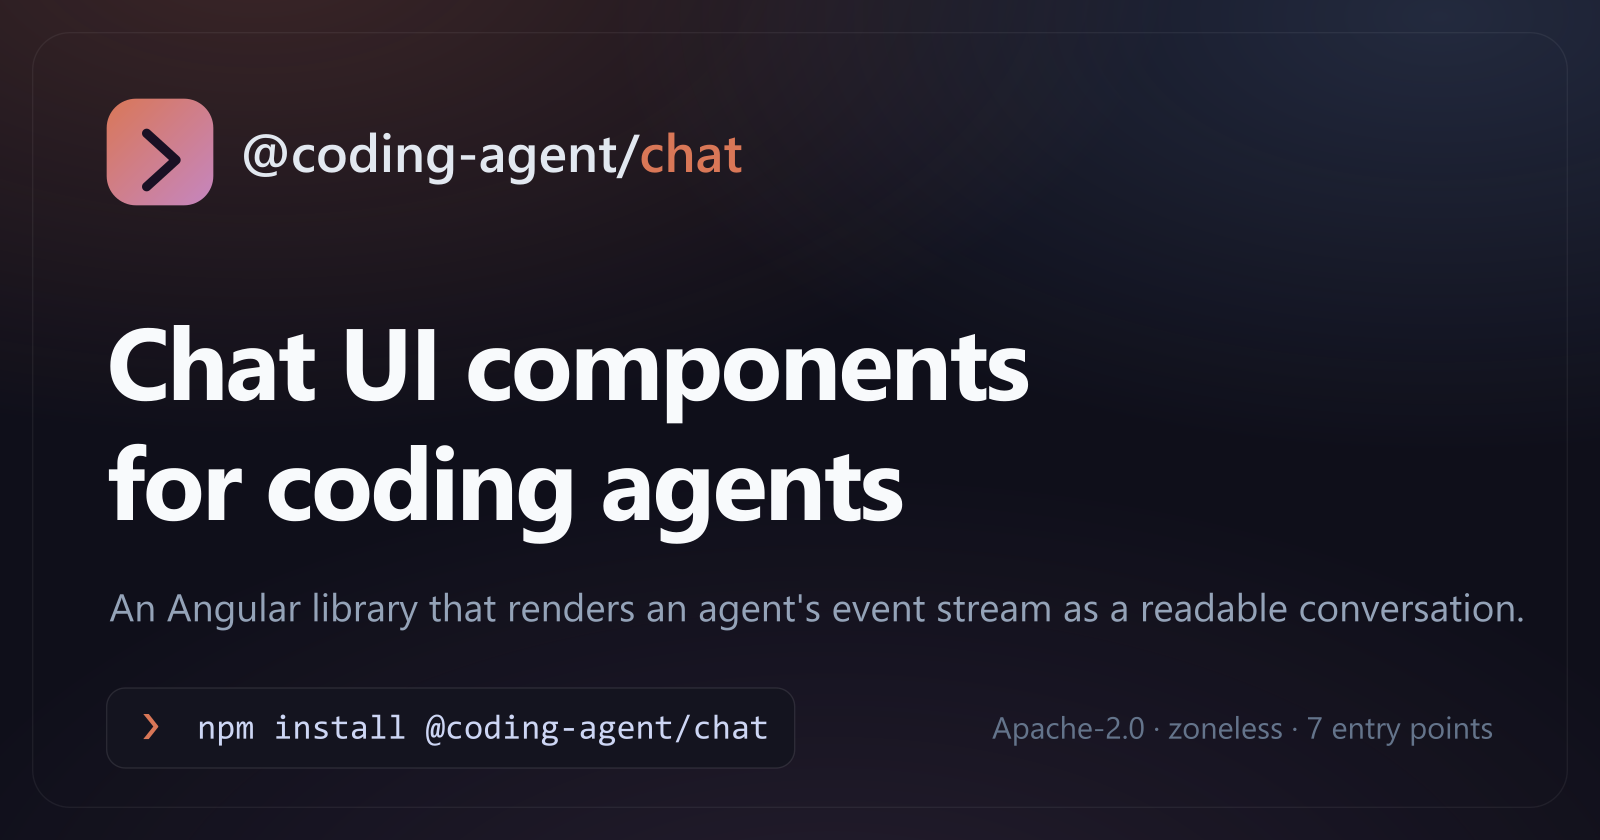
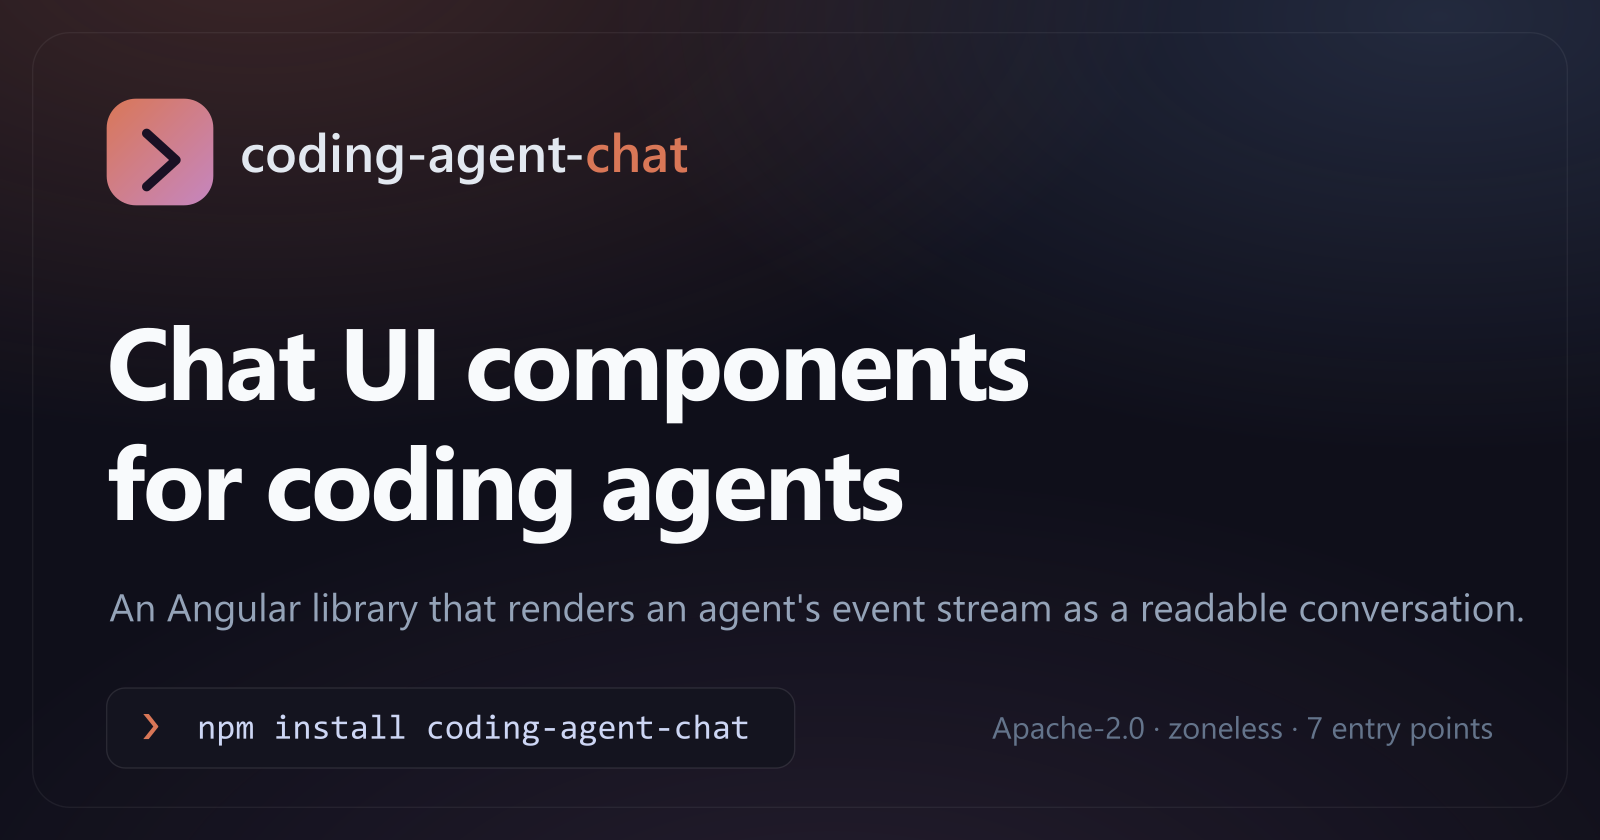
refactor!: rename package @user/chat -> coding-agent-chat (unscoped)
The @user npm org name is taken, so the package publishes unscoped
as `coding-agent-chat` - which conveniently matches the GitHub repo name
and needs no organization at all.

Swept all 70 files: the library package.json, every cross-entry-point
import in the library sources (ng-packagr writes these specifiers into the
published FESMs, so they MUST match the package name), tsconfig path keys
(root + both live configs), lab + website app imports, docs snippets and
explorer samples, website copy/brand lockups (nav, hero, footer, OG card
SVG + regenerated PNG, index.html title/meta/JSON-LD), Impressum/
Datenschutz footers, README/NOTICE/workflow comments, and the workbench
docs strings. Verified: zero old specifiers left in the repo or in the
built dist FESMs; imports now read `coding-agent-chat/core` etc.

145 workspace tests + 302 library specs pass; library + website build and
prerender clean; dist stamps coding-agent-chat@0.1.0.

Changed region(s): [[0.1562, 0.1548, 0.4688, 0.2167], [0.25, 0.8357, 0.4688, 0.8976]]

diff --git a/projects/coding-agent-chat/src/public-api.ts b/projects/coding-agent-chat/src/public-api.ts
@@ -1,17 +1,17 @@
 /*
- * Public API surface of @coding-agent/chat
+ * Public API surface of coding-agent-chat
  *
  * The primary entry point re-exports every secondary entry point plus the
  * `provideCodingAgentChat()` host-wiring helper. Consumers who care about
  * bundle weight import the secondary entry points directly —
- * `@coding-agent/chat/core` stays zero-Angular for backends, SSR and tests.
+ * `coding-agent-chat/core` stays zero-Angular for backends, SSR and tests.
  */
 
-export * from '@coding-agent/chat/core';
-export * from '@coding-agent/chat/markdown';
-export * from '@coding-agent/chat/shared';
-export * from '@coding-agent/chat/conversation';
-export * from '@coding-agent/chat/composer';
-export * from '@coding-agent/chat/history';
+export * from 'coding-agent-chat/core';
+export * from 'coding-agent-chat/markdown';
+export * from 'coding-agent-chat/shared';
+export * from 'coding-agent-chat/conversation';
+export * from 'coding-agent-chat/composer';
+export * from 'coding-agent-chat/history';
 
 export * from './provide-coding-agent-chat';

diff --git a/projects/website/src/app/snippets.ts b/projects/website/src/app/snippets.ts
@@ -4,12 +4,12 @@
  * when the public API moves.
  */
 
-export const SNIPPET_INSTALL = `npm install @coding-agent/chat
+export const SNIPPET_INSTALL = `npm install coding-agent-chat
 # peer deps: @angular/core, @angular/common, @angular/forms (>=21 <22), rxjs ~7.8`;
 
 export const SNIPPET_PROVIDE = `// app.config.ts
 import { ApplicationConfig } from '@angular/core';
-import { provideCodingAgentChat } from '@coding-agent/chat';
+import { provideCodingAgentChat } from 'coding-agent-chat';
 
 export const appConfig: ApplicationConfig = {
   providers: [
@@ -19,8 +19,8 @@ export const appConfig: ApplicationConfig = {
 };`;
 
 export const SNIPPET_RENDER = `// any component
-import { ConversationViewComponent } from '@coding-agent/chat/conversation';
-import type { ConversationEvent } from '@coding-agent/chat/core';
+import { ConversationViewComponent } from 'coding-agent-chat/conversation';
+import type { ConversationEvent } from 'coding-agent-chat/core';
 
 @Component({
   imports: [ConversationViewComponent],
@@ -38,7 +38,7 @@ provideCodingAgentChat({
 });`;
 
 export const SNIPPET_SEAM_HISTORY = `// The history entry point adds two more seams, provided directly:
-import { CHAT_HISTORY_CONFIRM, PROJECT_CHAT_DATA_SOURCE } from '@coding-agent/chat/history';
+import { CHAT_HISTORY_CONFIRM, PROJECT_CHAT_DATA_SOURCE } from 'coding-agent-chat/history';
 
 providers: [
   // scroll/search/stats/turn transport behind <cac-project-chat-list>
@@ -56,15 +56,15 @@ export interface ProjectChatDataSource {
 }`;
 
 export const SNIPPET_THEME = `/* styles.scss — optional drop-in stylesheet with the studio look */
-@import '@coding-agent/chat/theme/cac-theme.css';
+@import 'coding-agent-chat/theme/cac-theme.css';
 
 /* Dark by default. Light theme via an attribute on any parent: */
 /* <html data-studio-theme="light"> */`;
 
 export const SNIPPET_CORE_ONLY = `// Zero-Angular kernel: backends, SSR and tests can import the wire
 // contract + projection without pulling in the renderer.
-import { projectConversation } from '@coding-agent/chat/core';
-import type { ConversationEvent } from '@coding-agent/chat/core';
+import { projectConversation } from 'coding-agent-chat/core';
+import type { ConversationEvent } from 'coding-agent-chat/core';
 
 // Raw evidence in (CLI log lines, run timeline, tokens, screenshots, commits) —
 // a flat, ordered ConversationEvent[] out.

diff --git a/projects/website/src/app/app.html b/projects/website/src/app/app.html
@@ -5,7 +5,7 @@
   <div class="wrap site-nav__row">
     <a class="site-nav__brand" href="#top">
       <span class="site-nav__logo" aria-hidden="true"></span>
-      <span>&#64;coding-agent/<b>chat</b></span>
+      <span>coding-agent-<b>chat</b></span>
     </a>
     <div class="site-nav__links">
       <a
@@ -64,7 +64,7 @@
       </a>
       <a
         class="site-nav__ext"
-        href="https://www.npmjs.com/package/@coding-agent/chat"
+        href="https://www.npmjs.com/package/coding-agent-chat"
         target="_blank"
         rel="noopener"
       >
@@ -98,7 +98,7 @@
       <a href="https://github.com/RobertMischke/coding-agent-chat" target="_blank" rel="noopener"
         >GitHub</a
       >
-      <a href="https://www.npmjs.com/package/@coding-agent/chat" target="_blank" rel="noopener"
+      <a href="https://www.npmjs.com/package/coding-agent-chat" target="_blank" rel="noopener"
         >npm</a
       >
     </p>
@@ -464,7 +464,7 @@
         <article class="card reveal">
           <h3><span class="card__dot card__dot--blue"></span>Framework-free core</h3>
           <p>
-            <code>&#64;coding-agent/chat/core</code> is plain TypeScript: the
+            <code>coding-agent-chat/core</code> is plain TypeScript: the
             <code>ConversationEvent</code> contract plus <code>projectConversation()</code>.
             Backends, SSR code and tests can import it without Angular.
           </p>
@@ -549,7 +549,7 @@
         Seven import paths separate the parts, so importing the wire contract never pulls in the
         renderer. Every tab pairs the snippet with the <b>real component, live</b> — type into
         the composer, hover the tooltips, flip the theme. (The root import
-        <code>&#64;coding-agent/chat</code> re-exports everything plus
+        <code>coding-agent-chat</code> re-exports everything plus
         <code>provideCodingAgentChat()</code>.)
       </p>
       <div class="explorer reveal">
@@ -820,7 +820,7 @@
 <footer class="site-footer">
   <div class="wrap site-footer__row">
     <div>
-      <p class="site-footer__brand">&#64;coding-agent/<b>chat</b></p>
+      <p class="site-footer__brand">coding-agent-<b>chat</b></p>
       <p class="site-footer__note">
         Apache-2.0 · the frontend counterpart to
         <a
@@ -837,7 +837,7 @@
       <a href="https://github.com/RobertMischke/coding-agent-chat" target="_blank" rel="noopener"
         >GitHub</a
       >
-      <a href="https://www.npmjs.com/package/@coding-agent/chat" target="_blank" rel="noopener"
+      <a href="https://www.npmjs.com/package/coding-agent-chat" target="_blank" rel="noopener"
         >npm</a
       >
       <a

diff --git a/projects/website/src/app/app.ts b/projects/website/src/app/app.ts
@@ -19,11 +19,11 @@ import type {
   ChatSubmitEvent,
   ChatToolbarItem,
   ConversationEvent,
-} from '@coding-agent/chat/core';
-import { ChatComponent } from '@coding-agent/chat/composer';
-import { ConversationViewComponent } from '@coding-agent/chat/conversation';
-import { MarkdownViewComponent } from '@coding-agent/chat/markdown';
-import { TooltipDirective } from '@coding-agent/chat/shared';
+} from 'coding-agent-chat/core';
+import { ChatComponent } from 'coding-agent-chat/composer';
+import { ConversationViewComponent } from 'coding-agent-chat/conversation';
+import { MarkdownViewComponent } from 'coding-agent-chat/markdown';
+import { TooltipDirective } from 'coding-agent-chat/shared';
 
 import { CodeBlockComponent } from './code-block.component';
 import {
@@ -227,7 +227,7 @@ export class App {
   protected readonly snippetDataSource = SNIPPET_DATA_SOURCE;
   protected readonly snippetTheme = SNIPPET_THEME;
   protected readonly snippetCoreOnly = SNIPPET_CORE_ONLY;
-  protected readonly heroInstall = 'npm install @coding-agent/chat';
+  protected readonly heroInstall = 'npm install coding-agent-chat';
 
   // --- Live demo: two paced replays, each with a follow-up composer ----------
   protected readonly replayA = new DemoReplay(DEMO_REPLAY_STEPS);

diff --git a/projects/website/src/index.html b/projects/website/src/index.html
@@ -2,7 +2,7 @@
 <html lang="en" data-studio-theme="dark">
   <head>
     <meta charset="utf-8" />
-    <title>@coding-agent/chat — the Angular chat UI for coding agents</title>
+    <title>coding-agent-chat — the Angular chat UI for coding agents</title>
     <base href="/" />
     <meta name="viewport" content="width=device-width, initial-scale=1" />
     <meta
@@ -61,8 +61,8 @@
     <link rel="canonical" href="https://robertmischke.github.io/coding-agent-chat/" />
 
     <meta property="og:type" content="website" />
-    <meta property="og:site_name" content="@coding-agent/chat" />
-    <meta property="og:title" content="@coding-agent/chat — Angular chat UI for coding agents" />
+    <meta property="og:site_name" content="coding-agent-chat" />
+    <meta property="og:title" content="coding-agent-chat — Angular chat UI for coding agents" />
     <meta
       property="og:description"
       content="An Angular library that renders an agent's event stream as a readable conversation — messages, tool activity, waits and decisions. Zoneless, zero-Angular core, 7 entry points."
@@ -77,11 +77,11 @@
     <meta property="og:image:height" content="630" />
     <meta
       property="og:image:alt"
-      content="@coding-agent/chat — Chat UI components for coding agents"
+      content="coding-agent-chat — Chat UI components for coding agents"
     />
 
     <meta name="twitter:card" content="summary_large_image" />
-    <meta name="twitter:title" content="@coding-agent/chat — Angular chat UI for coding agents" />
+    <meta name="twitter:title" content="coding-agent-chat — Angular chat UI for coding agents" />
     <meta
       name="twitter:description"
       content="An Angular library that renders an agent's event stream as a readable conversation. Zoneless, zero-Angular core, 7 entry points."
@@ -98,7 +98,7 @@
       {
         "@context": "https://schema.org",
         "@type": "SoftwareSourceCode",
-        "name": "@coding-agent/chat",
+        "name": "coding-agent-chat",
         "description": "An Angular library that renders a coding agent's event stream as a readable conversation — messages, tool activity, waits and decisions.",
         "url": "https://robertmischke.github.io/coding-agent-chat/",
         "codeRepository": "https://github.com/RobertMischke/coding-agent-chat",

diff --git a/docs/migration-status.html b/docs/migration-status.html
@@ -87,7 +87,7 @@
 
   <header>
     <div class="kicker">Coding Agent Chat · Extraction Tracker</div>
-    <h1>Migration status <code>@coding-agent/chat</code></h1>
+    <h1>Migration status <code>coding-agent-chat</code></h1>
     <p>
       The chat UI of the Agent Studio frontend is being extracted into a standalone
       Angular library (<code>C:\Projects\coding-agent-chat</code>) — the frontend
@@ -193,10 +193,10 @@
           (2FA or a granular token with 2FA bypass is mandatory) and run the first publish
           (<code>npm run build &amp;&amp; cd dist/coding-agent-chat &amp;&amp; npm version 0.1.0 --no-git-tag-version &amp;&amp; npm publish --access public</code>),
           then register the Trusted Publisher on npmjs.com (repo <code>coding-agent-chat</code>, workflow
-          <code>release.yml</code>) — mirroring the runner's NuGet setup. The <code>@coding-agent</code> scope
+          <code>release.yml</code>) — mirroring the runner's NuGet setup. The unscoped <code>coding-agent-chat</code> name
           must belong to you.
         </p>
-        <div class="plan-meta"><b>Result:</b> installable <code>@coding-agent/chat@0.1.0</code></div>
+        <div class="plan-meta"><b>Result:</b> installable <code>coding-agent-chat@0.1.0</code></div>
       </div>
     </div>
 
@@ -206,7 +206,7 @@
         <h4>Host adoption in the Agent Studio frontend <span class="chip done">✔ done (5e)</span></h4>
         <p>
           Completed 2026-07-03 (app commit <code>90a9120b</code>): the frontend consumes
-          <code>@coding-agent/chat</code> (as a <code>file:</code> dependency on <code>dist/</code> for now,
+          <code>coding-agent-chat</code> (as a <code>file:</code> dependency on <code>dist/</code> for now,
           registry version after the first publish). All ~72 duplicated files deleted (−16,644 lines),
           ~200 consumers moved to library entry points and <code>cac-*</code> selectors, seams wired
           (<code>provideCodingAgentChat</code>, <code>PROJECT_CHAT_DATA_SOURCE</code> adapter,

diff --git a/projects/coding-agent-chat/conversation/src/conversation-view/conversation-view.component.ts b/projects/coding-agent-chat/conversation/src/conversation-view/conversation-view.component.ts
@@ -1,6 +1,6 @@
 import { ChangeDetectionStrategy, Component, ElementRef, computed, effect, input, output, signal, untracked, viewChild } from '@angular/core';
 
-import { MarkdownViewComponent } from '@coding-agent/chat/markdown';
+import { MarkdownViewComponent } from 'coding-agent-chat/markdown';
 import { ToolBurstChipComponent } from '../tool-burst-chip/tool-burst-chip.component';
 import { ConversationSessionCardComponent } from '../conversation-session-card/conversation-session-card.component';
 import { PixelProgressComponent } from '../pixel-progress/pixel-progress.component';
@@ -10,8 +10,8 @@ import {
   StickToBottomDirective,
   TooltipDirective,
   type StructuredTooltip,
-} from '@coding-agent/chat/shared';
-import { parseRateLimit, shortModelLabel, type SessionCardData } from '@coding-agent/chat/core';
+} from 'coding-agent-chat/shared';
+import { parseRateLimit, shortModelLabel, type SessionCardData } from 'coding-agent-chat/core';
 import type {
   AgentNeedsInputEvent,
   ArtifactImageEvent,
@@ -33,7 +33,7 @@ import type {
   ToolBurstEvent,
   ToolOutputHit,
   TraceLinkEvent,
-} from '@coding-agent/chat/core';
+} from 'coding-agent-chat/core';
 
 interface MessageGroupItem {
   id: string;

diff --git a/projects/conversation-lab/src/app/app.ts b/projects/conversation-lab/src/app/app.ts
@@ -10,10 +10,10 @@ import type {
   CliOutputLine,
   ConversationEvent,
   RawLineRange,
-} from '@coding-agent/chat/core';
-import { shortModelLabel } from '@coding-agent/chat/core';
-import { ChatComponent } from '@coding-agent/chat/composer';
-import { ConversationViewComponent } from '@coding-agent/chat/conversation';
+} from 'coding-agent-chat/core';
+import { shortModelLabel } from 'coding-agent-chat/core';
+import { ChatComponent } from 'coding-agent-chat/composer';
+import { ConversationViewComponent } from 'coding-agent-chat/conversation';
 
 import { userTurnEvent } from './lab-fixtures';
 import {

diff --git a/projects/website/src/app/explorer-data.ts b/projects/website/src/app/explorer-data.ts
@@ -11,7 +11,7 @@ import type {
   MessageEvent,
   RawLineRange,
   ToolBurstEvent,
-} from '@coding-agent/chat/core';
+} from 'coding-agent-chat/core';
 
 export type EntryPointKey =
   | 'core'
@@ -117,8 +117,8 @@ export const EXPLORER_SNIPPETS: Record<EntryPointKey, { code: string; label: str
   core: {
     label: 'zero Angular — runs in Node, tests, your backend',
     code: [
-      "import { projectConversation } from '@coding-agent/chat/core';",
-      "import type { ConversationEvent } from '@coding-agent/chat/core';",
+      "import { projectConversation } from 'coding-agent-chat/core';",
+      "import type { ConversationEvent } from 'coding-agent-chat/core';",
       '',
       'const events: ConversationEvent[] = JSON.parse(feed); // wire JSON below ↓',
       'const items = projectConversation(events); // grouped, folded, render-ready',
@@ -160,7 +160,7 @@ export const EXPLORER_SNIPPETS: Record<EntryPointKey, { code: string; label: str
   theme: {
     label: 'styles.scss + any parent element',
     code: [
-      "@use '@coding-agent/chat/theme/cac-theme.css';",
+      "@use 'coding-agent-chat/theme/cac-theme.css';",
       '',
       '<!-- light/dark per subtree — nest them freely: -->',
       '<div data-studio-theme="light"> …chat surfaces… </div>',

diff --git a/projects/coding-agent-chat/composer/src/chat/chat.component.ts b/projects/coding-agent-chat/composer/src/chat/chat.component.ts
@@ -16,8 +16,8 @@ import { FormsModule } from '@angular/forms';
 import {
   MarkdownImageLightboxDirective,
   TooltipDirective,
-} from '@coding-agent/chat/shared';
-import { MarkdownViewComponent } from '@coding-agent/chat/markdown';
+} from 'coding-agent-chat/shared';
+import { MarkdownViewComponent } from 'coding-agent-chat/markdown';
 import {
   mergeByTimestamp,
   ChatContextUsage,
@@ -30,7 +30,7 @@ import {
   ChatRole,
   ChatSubmitEvent,
   ChatToolbarItem,
-} from '@coding-agent/chat/core';
+} from 'coding-agent-chat/core';
 import { RoleBadgeComponent } from '../role-badge/role-badge.component';
 import { ModelSelectorComponent } from '../model-selector/model-selector.component';
 import { PermissionSelectComponent } from '../permission-select/permission-select.component';

diff --git a/projects/website/public/datenschutz.html b/projects/website/public/datenschutz.html
@@ -2,7 +2,7 @@
 <html lang="de">
   <head>
     <meta charset="utf-8" />
-    <title>Datenschutzerklärung — @coding-agent/chat</title>
+    <title>Datenschutzerklärung — coding-agent-chat</title>
     <meta name="viewport" content="width=device-width, initial-scale=1" />
     <meta name="robots" content="noindex" />
     <meta name="color-scheme" content="light dark" />
@@ -114,7 +114,7 @@
       <h2>Überblick</h2>
       <p>
         Diese Website ist die Projektseite der Open-Source-Bibliothek
-        <i>@coding-agent/chat</i>. Sie ist eine rein statische Seite: Der Betreiber setzt
+        <i>coding-agent-chat</i>. Sie ist eine rein statische Seite: Der Betreiber setzt
         <b>keine Cookies</b>, bindet <b>keine Analyse- oder Tracking-Werkzeuge</b> ein und
         erhebt selbst keine personenbezogenen Daten. Es gibt keine Kontaktformulare, keine
         Konten und keine Newsletter.
@@ -175,7 +175,7 @@
       </p>
 
       <footer>
-        <b>@coding-agent/chat</b> · <a href="impressum.html">Impressum</a> ·
+        <b>coding-agent-chat</b> · <a href="impressum.html">Impressum</a> ·
         <a href="./">robertmischke.github.io/coding-agent-chat</a>
       </footer>
     </main>

diff --git a/projects/website/public/impressum.html b/projects/website/public/impressum.html
@@ -2,7 +2,7 @@
 <html lang="de">
   <head>
     <meta charset="utf-8" />
-    <title>Impressum — @coding-agent/chat</title>
+    <title>Impressum — coding-agent-chat</title>
     <meta name="viewport" content="width=device-width, initial-scale=1" />
     <meta name="robots" content="noindex" />
     <meta name="color-scheme" content="light dark" />
@@ -152,7 +152,7 @@
       <p>
         Die durch den Seitenbetreiber erstellten Inhalte und Werke auf diesen Seiten unterliegen
         dem deutschen Urheberrecht. Der Quellcode der hier vorgestellten Software
-        <i>@coding-agent/chat</i> ist unter der
+        <i>coding-agent-chat</i> ist unter der
         <a
           href="https://github.com/RobertMischke/coding-agent-chat/blob/main/LICENSE"
           target="_blank"
@@ -173,7 +173,7 @@
       </p>
 
       <footer>
-        <b>@coding-agent/chat</b> · Apache-2.0 · <a href="datenschutz.html">Datenschutz</a> ·
+        <b>coding-agent-chat</b> · Apache-2.0 · <a href="datenschutz.html">Datenschutz</a> ·
         <a href="./">robertmischke.github.io/coding-agent-chat</a>
       </footer>
     </main>